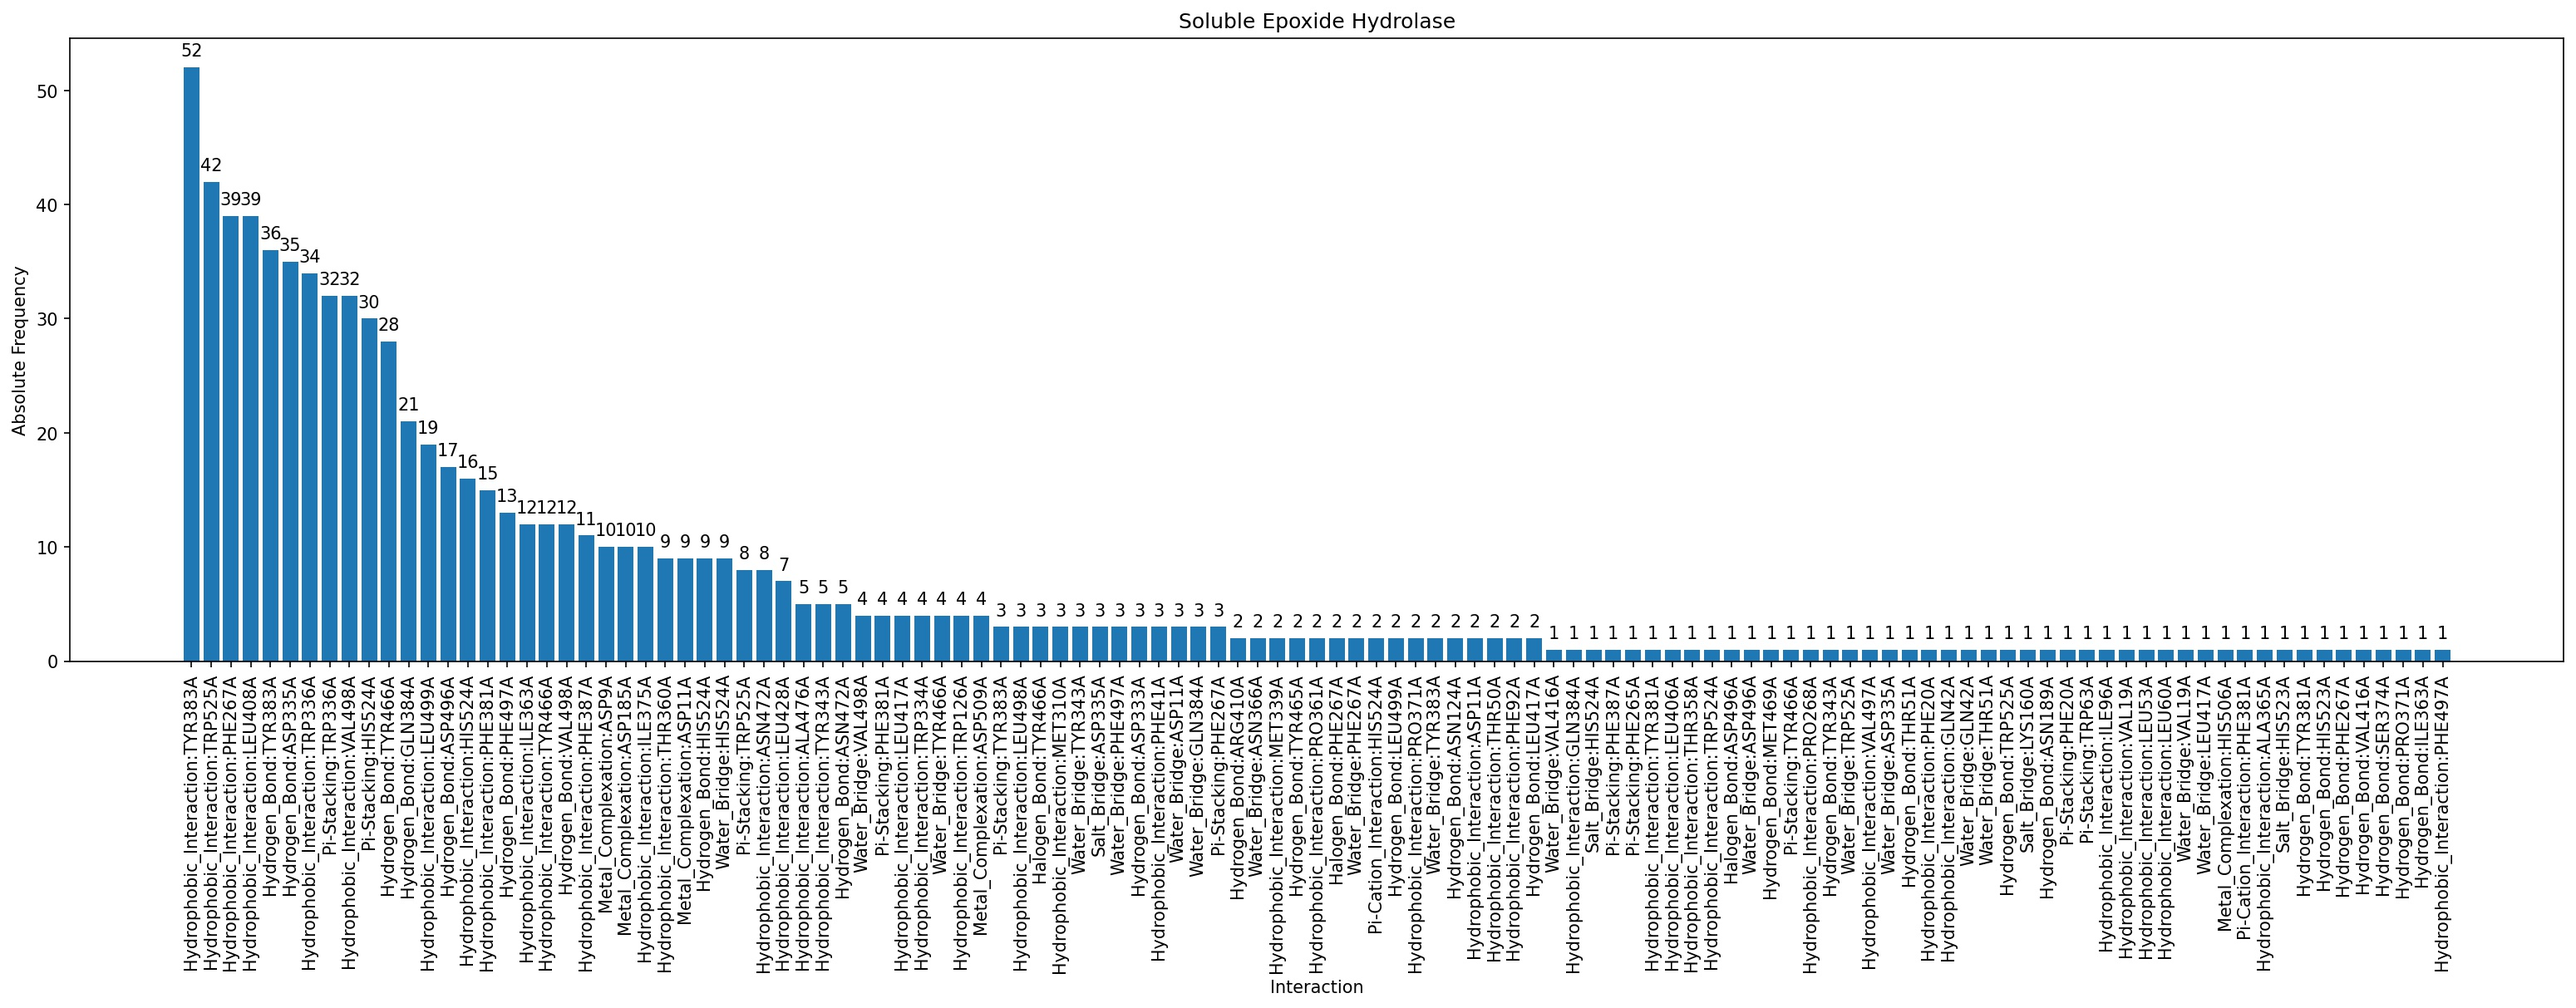
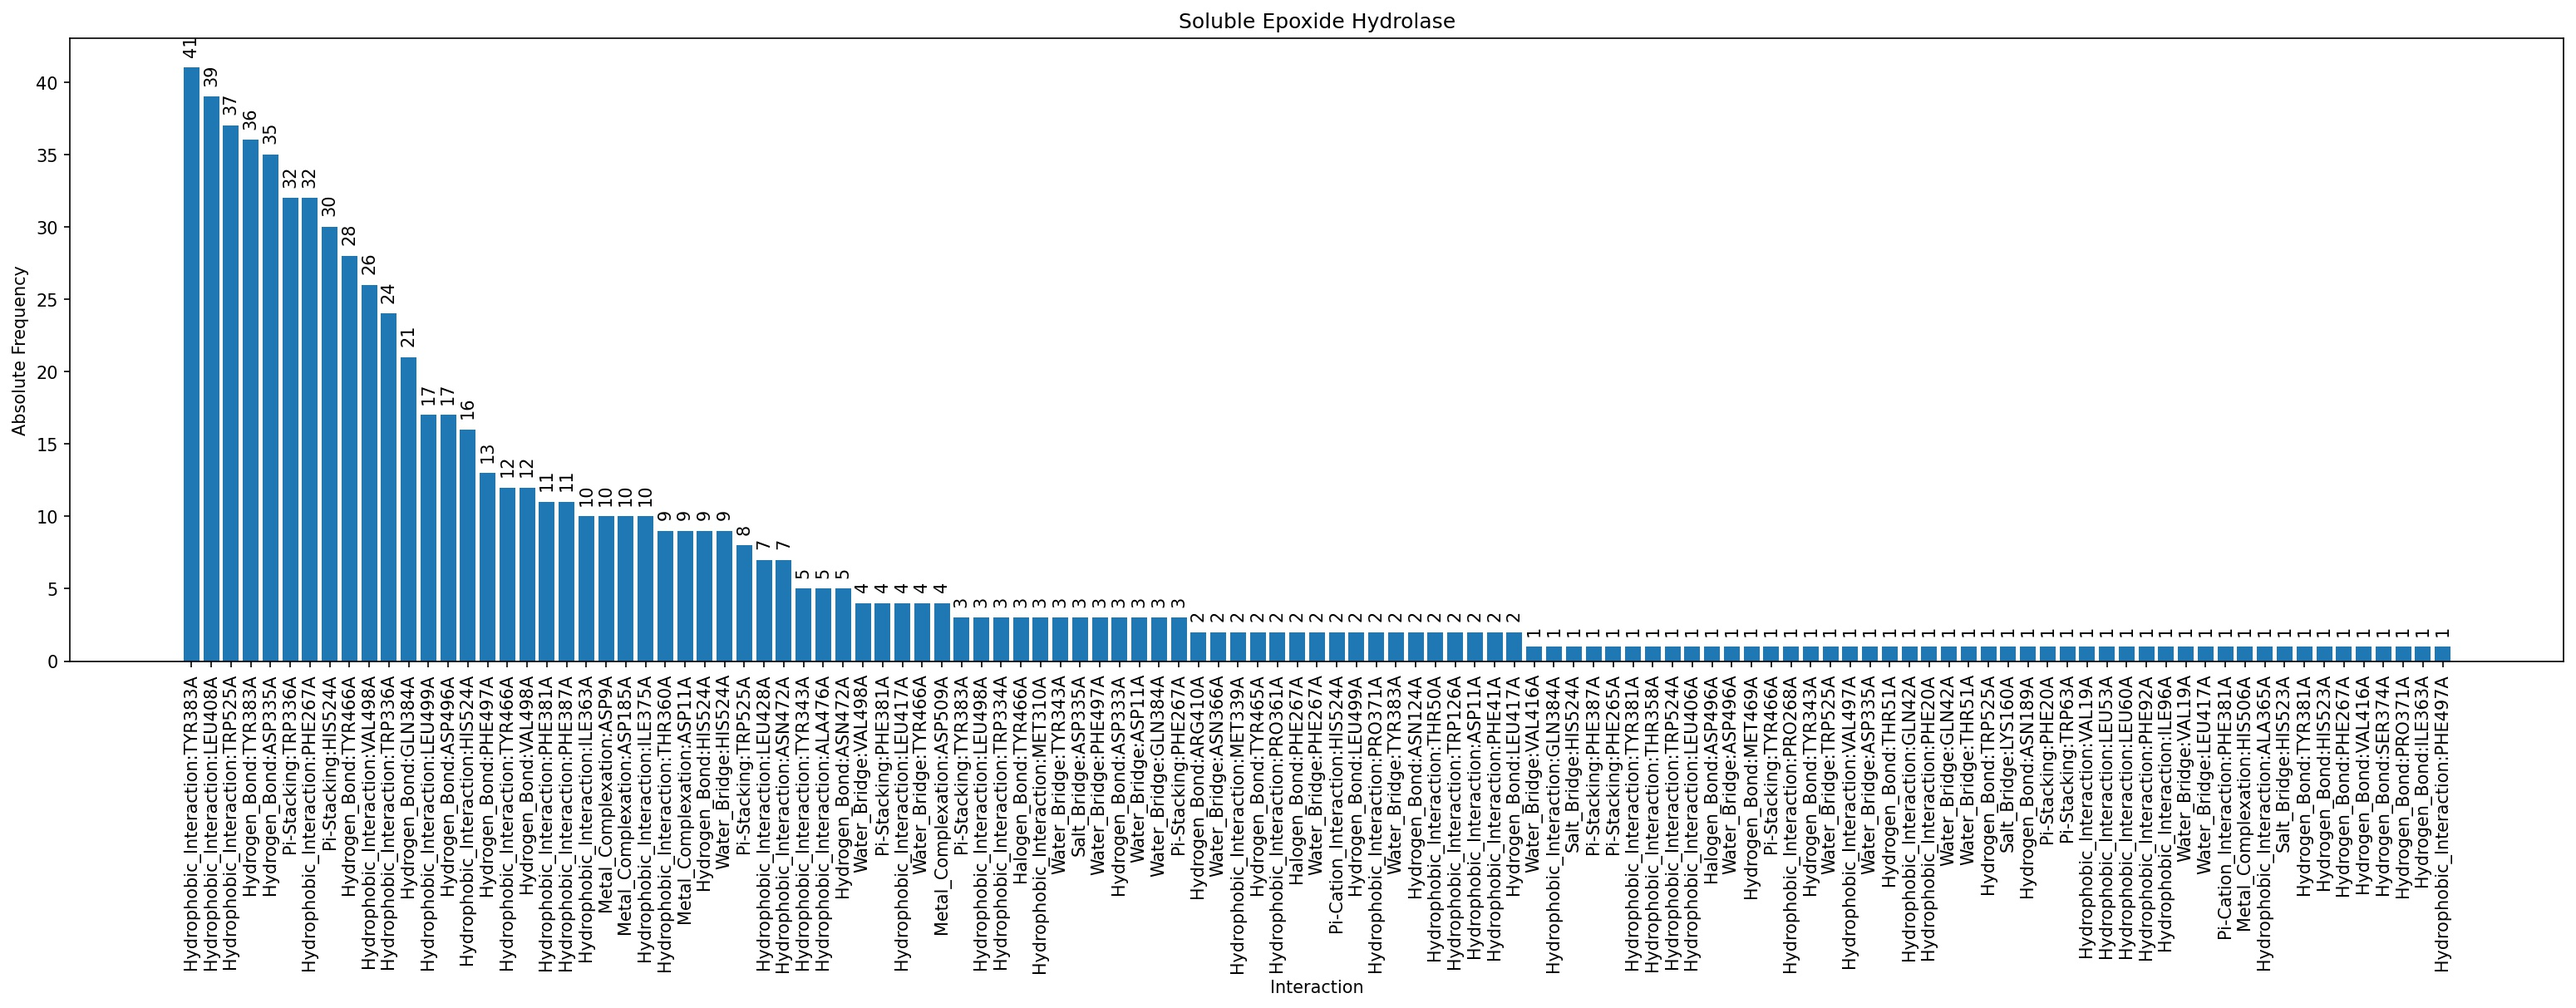
bump SEH results to newer version

diff --git a/data/soluble_epoxide_hydrolase/plip_analysis.py b/data/soluble_epoxide_hydrolase/plip_analysis.py
@@ -22,13 +22,21 @@ if __name__ == '__main__':
     PDB_ENTRIES = list(df["PDB_ENTRY"])
     print("First 5 PDB entries:")
     print(PDB_ENTRIES[:5])
-    result = pa(PDB_ENTRIES, path = "structures")
+    result = pa(PDB_ENTRIES, path = "structures", normalize = False)
     r = result.save("results/soluble_epoxide_hydrolase")
     print("Result saved in:")
     print(r)
     r = result.to_csv("results/soluble_epoxide_hydrolase_freq.csv")
     result.plot("Soluble Epoxide Hydrolase", filename = "results/soluble_epoxide_hydrolase.jpg")
     result.plot("Soluble Epoxide Hydrolase", filename = "results/soluble_epoxide_hydrolase.png")
+    # normalized results
+    result = pa(PDB_ENTRIES, path = "structures", normalize = True)
+    r = result.save("results/soluble_epoxide_hydrolase_normalized")
+    print("Result saved in:")
+    print(r)
+    r = result.to_csv("results/soluble_epoxide_hydrolase_normalized_freq.csv")
+    result.plot("Soluble Epoxide Hydrolase", filename = "results/soluble_epoxide_hydrolase_normalized.jpg")
+    result.plot("Soluble Epoxide Hydrolase", filename = "results/soluble_epoxide_hydrolase_normalized.png")
 
     # clean up
     os.remove("PLIPAnalyzer.py")
